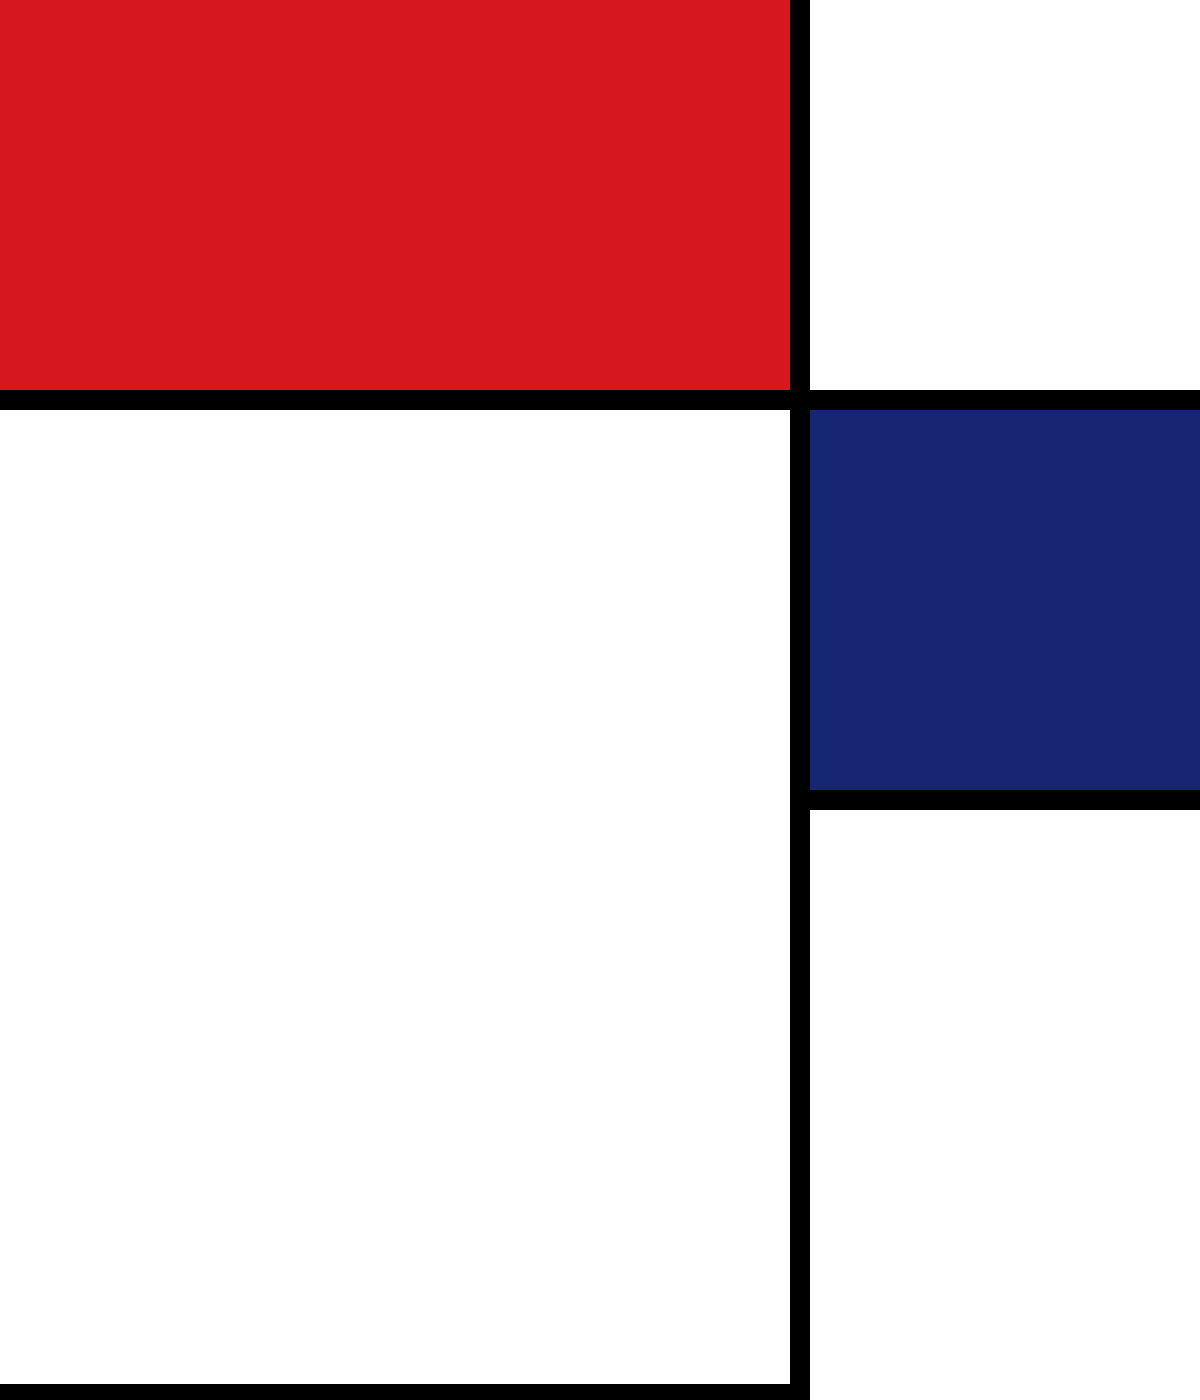
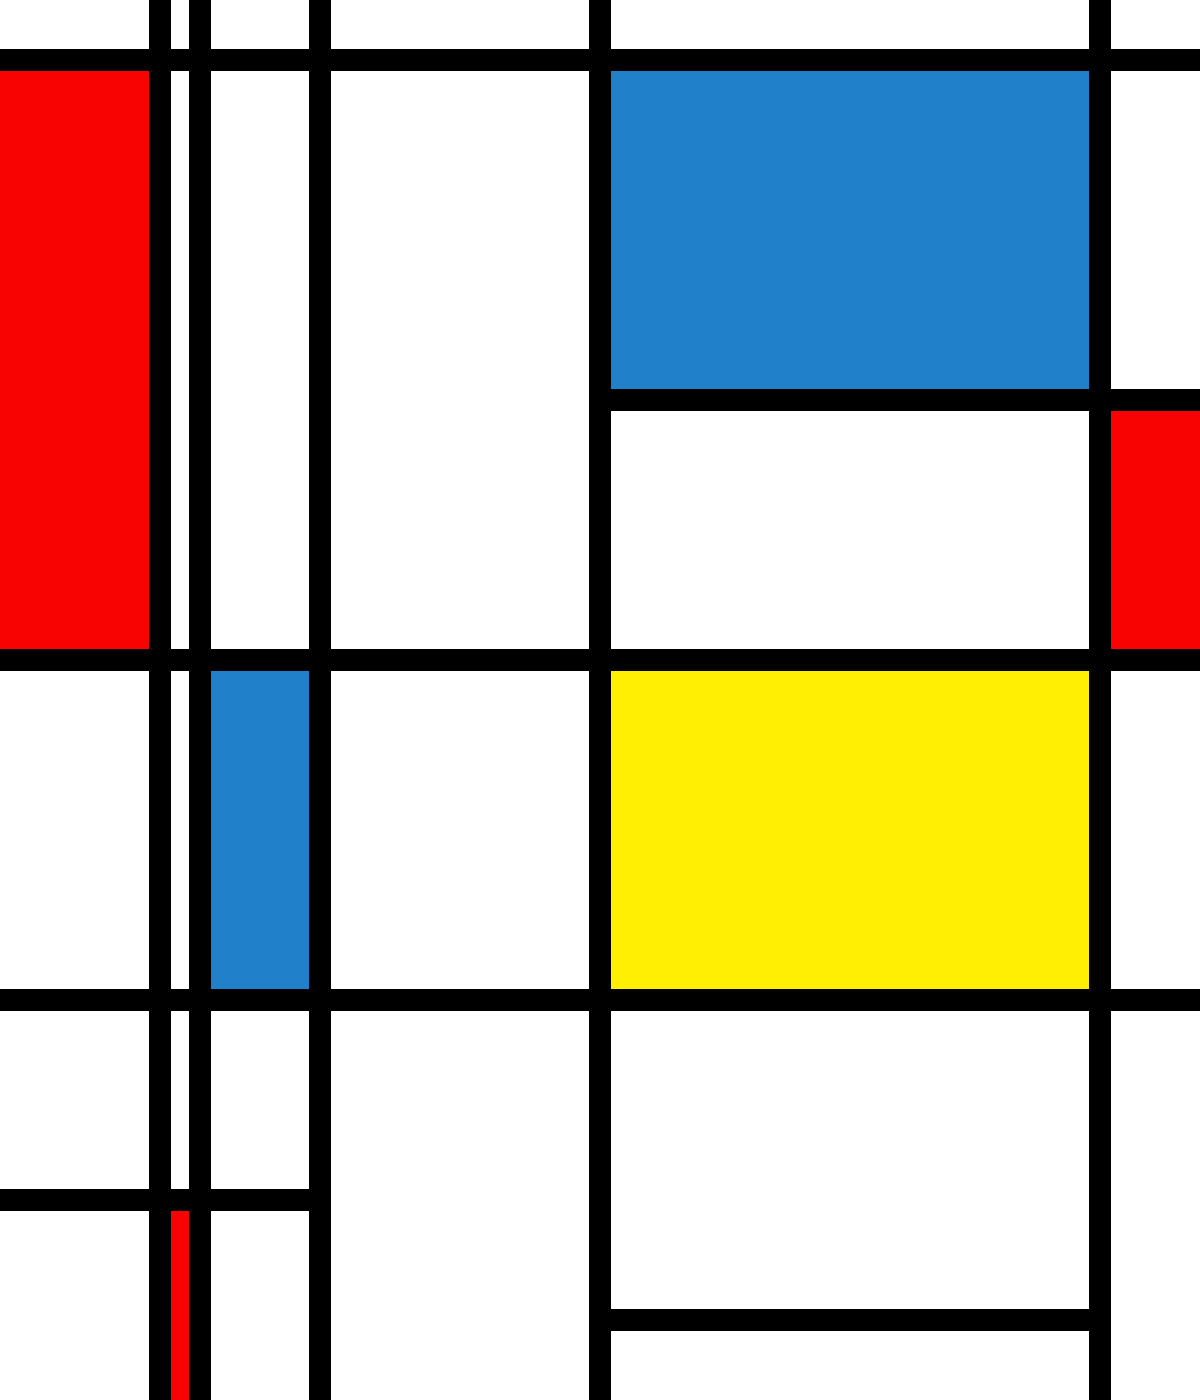
genuary 1

diff --git a/genuary_01/genuary_01_lines.js b/genuary_01/genuary_01_lines.js
@@ -1,24 +1,58 @@
 function setup() {
-  createCanvas(600, 700); 
-  noLoop();      
+  createCanvas(600, 700);
+  noLoop();
 }
 
 function draw() {
-  background(255);        
+  background(255); 
+  noStroke(); 
   
-  noStroke()
-  fill(22, 38, 114); // Red
-  rect(400, 200, 200, 200); 
-  
-  noStroke()
-  fill(214, 23, 31); // Red
-  rect(0, 0, 400, 200); 
-  
-  stroke(0);
-  strokeWeight(10); 
-  line(400, 0, 400, height);
-  line(0, 200, width, 200);
-  line(400, 400, 600, 400);
-  line(0, 697, 400, 697);
+  let colors = [
+    [249, 3, 2], //red      
+    [32, 128, 202],//blue
+    [255, 239, 1]//yellow
+  ];
 
+  // Fill rectangles with colors
+  fill(colors[0]);
+  rect(0, 30, 80, 300); 
+
+  fill(colors[1]); 
+  rect(300, 30, 250, 170); 
+
+  fill(colors[2]); 
+  rect(300, 330, 250, 170); 
+
+  fill(colors[1]); 
+  rect(100, 330, 60, 170); 
+
+  fill(colors[0]); 
+  rect(550, 200, 50, 130); 
+  
+  fill(colors[0]); 
+  rect(80, 600, 20, 130); 
+
+  // Lines
+  stroke(0); 
+  strokeWeight(11); 
+
+  // 5 vertical lines at custom positions
+  let verticalPositions = [100, 160, 300, 550]; 
+  for (let x of verticalPositions) {
+    line(x, 0, x, height);
+  }
+  
+  // Add three horizontal half-lines
+  line(300, 200, 600, 200); 
+  line(0, 600, 160, 600);
+  line(300, 660, 550, 660);
+   
+  // Vertical line
+  line(80,0, 80, height);
+  
+  // 3 horizontal lines at custom positions
+  let horizontalPositions = [30, 330, 500];
+  for (let y of horizontalPositions) {
+    line(0, y, width, y);
+  }
 }
